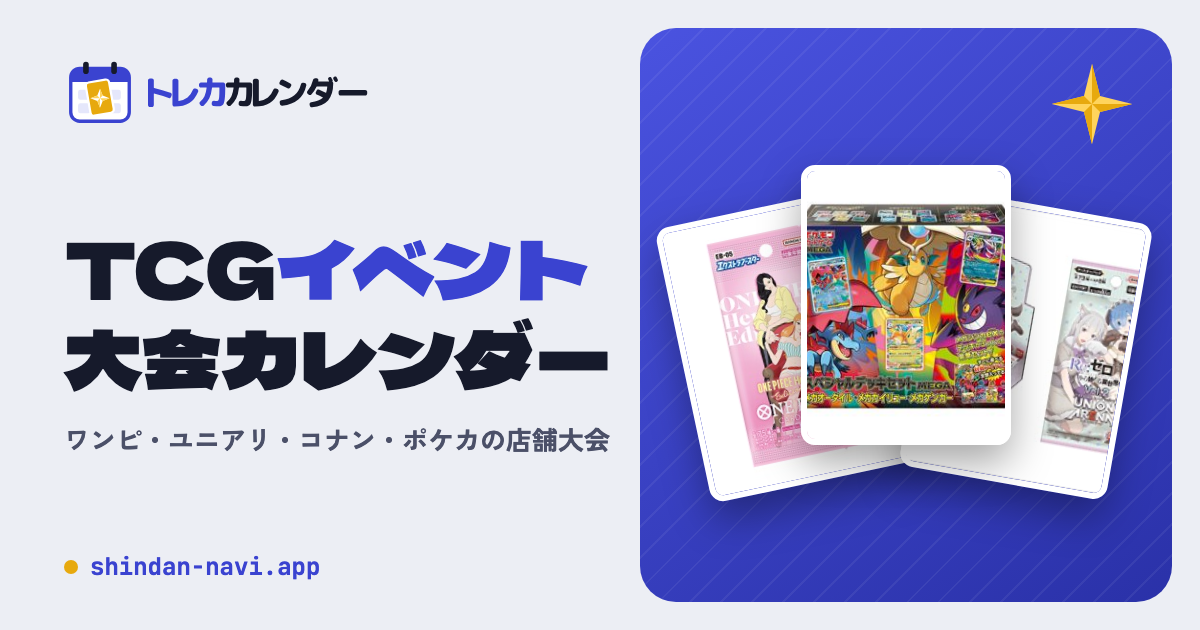
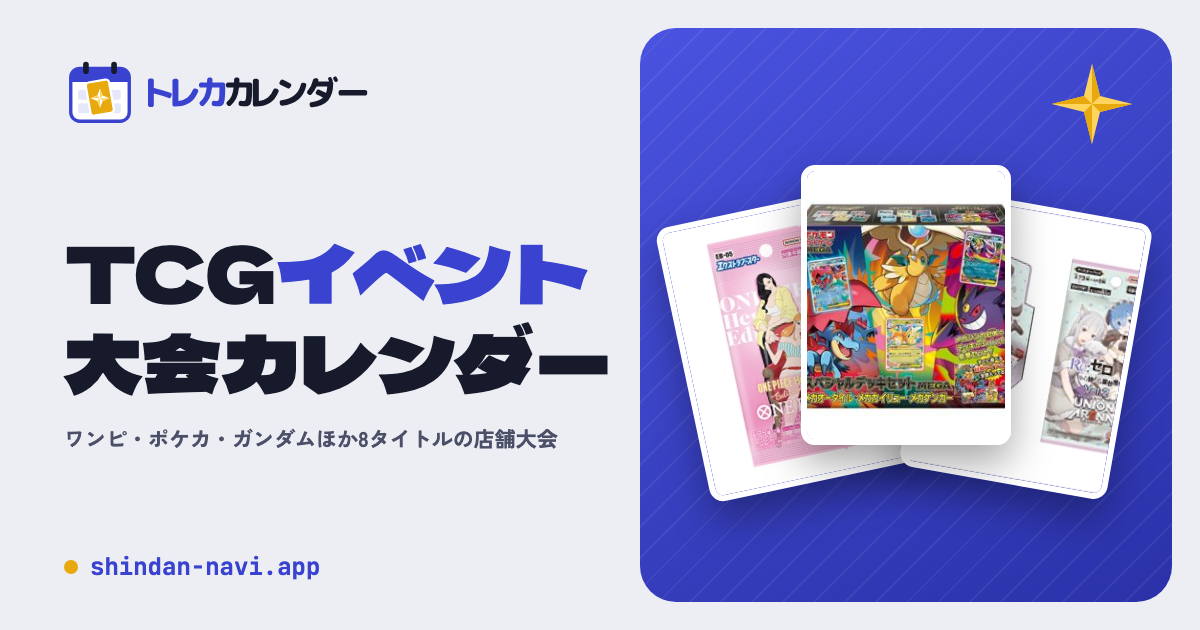
Events: four more Bandai games in the API, /events/ and the today page
- Migration 0005 seeds the games (bits 16-128) and rebuilds events and
  day_counts so game_mask may reach 255; the importer and Worker know
  the new codes, type labels and slugs.
- /events/ and / get chips, colours and names for ガンダム,
  DBフュージョンワールド, バトルスピリッツ and デジモン.
- The today page shows at most five game columns (the busiest today,
  within the saved game filter); the rest become a ほかのタイトル row.
- D1 budget documents the migration cost and the import split.

Claude-Session: https://claude.ai/code/session_01VCJRsMam3QVvR7JmKudbJ5

diff --git a/src/home.html b/src/home.html
@@ -81,6 +81,8 @@ a.pk.on{border-color:var(--foil);box-shadow:inset 0 0 0 1px var(--foil)}
 .wd .rl b{font-family:var(--mono)}
 .wd .rl:hover{text-decoration:underline}
 .gcs{display:flex;flex-wrap:wrap;gap:4px;margin-top:auto}
+.gcs.gmore{align-items:center;margin-top:8px}
+.gmore .lab{font-size:12px;color:var(--muted);margin-right:2px}
 .gc{display:inline-flex;align-items:center;gap:4px;font-size:11.5px;font-weight:700;color:var(--ink);text-decoration:none;border:1px solid hsl(var(--h) var(--chip-s) var(--chip-l));background:hsl(var(--h) 70% var(--tint-l));border-radius:999px;padding:1px 8px 1px 6px;white-space:nowrap;min-width:0}
 .gc span{display:inline-flex;align-items:center;gap:4px;min-width:0;overflow:hidden;text-overflow:ellipsis}
 .gc i{width:7px;height:7px;border-radius:50%;flex:none;background:hsl(var(--h) var(--chip-s) var(--chip-l))}
@@ -214,7 +216,11 @@ const EV_GAMES = [
   {code:'OPCG', name:'ONE PIECE', short:'ワンピ', h:4, bit:1},
   {code:'UATCG', name:'UNION ARENA', short:'ユニアリ', h:272, bit:2},
   {code:'CONAN', name:'名探偵コナン', short:'コナン', h:205, bit:4},
-  {code:'PTCG', name:'ポケモンカード', short:'ポケカ', h:44, bit:8}
+  {code:'PTCG', name:'ポケモンカード', short:'ポケカ', h:44, bit:8},
+  {code:'GCG', name:'ガンダム', short:'ガンダム', h:325, bit:16},
+  {code:'DBFW', name:'DBフュージョンワールド', short:'DBFW', h:26, bit:32},
+  {code:'BS', name:'バトルスピリッツ', short:'バトスピ', h:140, bit:64},
+  {code:'DCG', name:'デジモン', short:'デジカ', h:178, bit:128}
 ];
 const EVG = Object.fromEntries(EV_GAMES.map(g=>[g.code,g]));
 const SAVED_KEY = 'tcg.ev.filters';
@@ -245,13 +251,21 @@ async function api(path,query){
   return body;
 }
 const codesOf = e => Array.isArray(e.game_codes)&&e.game_codes.length ? e.game_codes : [e.game_code];
-// Today's columns: the games with events today (by_game of /days), in EV_GAMES order.
-function todayCols(){
+// Today's games with events (by_game of /days, which already follows the saved game filter), in EV_GAMES order.
+function todayGames(){
   const bg=ev.byGame[TODAY];
   if(bg) return EV_GAMES.filter(g=>bg[g.code]>0).map(g=>({g, n:bg[g.code]}));
   // /days without by_game: what the loaded page holds
   const n={}; ev.list.filter(e=>e.starts_on===TODAY).forEach(e=>codesOf(e).forEach(c=>n[c]=(n[c]||0)+1));
   return EV_GAMES.filter(g=>n[g.code]).map(g=>({g, n:n[g.code]}));
+}
+// At most MAX_COLS columns: the games with the most events today (ties in EV_GAMES order), still in EV_GAMES order.
+const MAX_COLS = 5;
+function todayCols(){
+  const all=todayGames();
+  if(all.length<=MAX_COLS) return all;
+  const top=new Set([...all].sort((a,b)=>b.n-a.n).slice(0,MAX_COLS));
+  return all.filter(c=>top.has(c));
 }
 // Within a day: today, events that already started follow the upcoming ones; cancelled ones go last (as on /events/).
 const started = e => e.starts_on===TODAY && e.time_precision==='datetime' && !!e.starts_at && Date.parse(e.starts_at)<=Date.now();
@@ -326,14 +340,15 @@ function renderEv(){
     body.innerHTML = `<p class="none"><b>今日、${esc(LOC.locName(f.pref))}で予定されているイベントはありません</b>${nx?`<a class="go" href="${esc(dayLink(f,nx))}">次は ${md(nx)}・${ev.counts[nx]}件 ›</a>`:''}</p>`;
     return;
   }
-  const cols=todayCols(), k=SHOW(cols.length);
+  const cols=todayCols(), k=SHOW(cols.length), hidden=todayGames().filter(c=>!cols.some(x=>x.g===c.g));
+  const others = hidden.length ? `<div class="gcs gmore"><span class="lab">ほかのタイトル</span>${hidden.map(({g,n})=>`<a class="gc" style="--h:${g.h}" href="${esc(dayLink(f,TODAY,g.code))}" title="${esc(g.name)}・${n}件"><span><i aria-hidden="true"></i>${esc(g.name)}</span><b>${n}</b></a>`).join('')}</div>` : '';
   body.innerHTML = `<div class="gcols" style="--n:${Math.max(cols.length,1)}">${cols.map(({g,n})=>{
     const rows=rowsFor(g.code,TODAY).slice(0,k), rest=n-rows.length, href=esc(dayLink(f,TODAY,g.code));
     const list = rows.length ? `<ul class="evs">${rows.map(e=>evRow(e,g.code)).join('')}</ul>` : '';
     const more = !rows.length ? `<a class="go more" href="${href}">${n}件をイベントカレンダーで見る ›</a>`
       : rest>0 ? `<a class="go more" href="${href}">ほか ${rest}件 ›</a>` : `<a class="go more" href="${href}">地図で見る ›</a>`;
     return `<section class="gcol" style="--h:${g.h}" aria-label="${esc(g.name)}"><h3><span class="gn"><i aria-hidden="true"></i>${esc(g.name)}</span><span class="c"><b>${n}</b> 件</span></h3>${list}${more}</section>`;
-  }).join('')}</div>`;
+  }).join('')}</div>${others}`;
 }
 
 // ---- tomorrow and the rest of the week: releases, and with a location the events per game (this month's /days only;

diff --git a/api/tests/import.test.ts b/api/tests/import.test.ts
@@ -1,9 +1,9 @@
 import { describe, expect, it } from 'vitest';
 import { mkdirSync, rmSync, writeFileSync } from 'node:fs';
 import { join } from 'node:path';
-import { ALL_PREFS, api, apiAll, importDir, newDb, run, sampleEvents, synthetic, writeDataDir, type Ev } from './helpers';
+import { ALL_PREFS, api, apiAll, importDir, newDb, run, sampleEvents, SOURCE, synthetic, writeDataDir, type Ev } from './helpers';
 import { emptyState, estimateCost, loadAll, MAX_STATEMENT_BYTES, planImport, toSqlFile } from '../scripts/lib/importer.mjs';
-import type { SqliteD1 } from '../scripts/lib/sqlite-d1.mjs';
+import { SqliteD1 } from '../scripts/lib/sqlite-d1.mjs';
 
 const snapshot = (db: SqliteD1) => ({
   events: db.db.prepare('SELECT * FROM events ORDER BY id').all(),
@@ -243,6 +243,57 @@ describe('shared events', () => {
   it('warns when shared copies differ', () => {
     const dir = writeDataDir([...opcg, ...uatcg.map((e) => (e.id === shared.id ? { ...e, name: 'different' } : e))]);
     expect(loadAll(dir).flatMap((r) => r.warnings).join('\n')).toMatch(/tcgp:shared1: differs from the copy in OPCG/);
+  });
+});
+
+describe('games with bits above 8', () => {
+  // SYNTHETIC: the four-game data plus events of the Bandai games added in 0005 (bits 16-128), one of them shared
+  // by OPCG, GCG and DCG (mask 145).
+  const base = synthetic(40);
+  const more = ['GCG', 'DBFW', 'BS', 'DCG'].flatMap((g, i) => synthetic(6, 1_000 + i * 6).map((e) => ({
+    ...e, game_code: g, source_code: SOURCE[g], id: `tcgp:${g}${e.external_id}`, external_id: `${g}${e.external_id}`,
+  })));
+  const opcgEv = base.find((e) => e.game_code === 'OPCG' && e.venue)!;
+  const shared: Ev = { ...opcgEv, source_code: 'bandai_tcg_plus', id: 'tcgp:shared9', external_id: 'shared9', name: '【SYNTHETIC】shared 3 games' };
+  const evs = [...base, ...more, ...['OPCG', 'GCG', 'DCG'].map((g) => ({ ...shared, game_code: g }))];
+
+  it('stores, filters and counts them like the first four', async () => {
+    const db = newDb();
+    const results = importDir(db, writeDataDir(evs), 1_000);
+    expect(results.flatMap((r) => [...r.errors, ...r.warnings])).toEqual([]);
+    expect(mask(db, shared.id)).toBe(1 | 16 | 128);
+    const ev = (await apiAll(db, Q)).body.events.find((e: Ev) => e.id === shared.id);
+    expect(ev.game_codes).toEqual(['DCG', 'GCG', 'OPCG']);
+    for (const g of ['GCG', 'DBFW', 'BS', 'DCG']) {
+      const want = more.filter((e) => e.game_code === g).length + (['GCG', 'DCG'].includes(g) ? 1 : 0);
+      expect((await apiAll(db, `${Q}&game=${g}`)).body.events).toHaveLength(want);
+      const days = (await apiAll(db, `/api/v1/events/days?from=2026-11-18&until=2027-02-18&${ALL_PREFS}&game=${g}`)).body.days;
+      expect(days.reduce((n: number, d: Ev) => n + d.by_game[g], 0)).toBe(want);
+    }
+    const meta = (await api(db, '/api/v1/events/meta')).body;
+    expect(meta.games.find((g: Ev) => g.code === 'BS').record_count).toBe(6);
+    const rows: number[] = Object.values(meta.loc_counts.rows).flat() as number[];
+    expect(rows.filter((_, i) => i % 5 === 0)).toContain(145);
+  });
+
+  it('0005 keeps the rows of a database migrated before it', async () => {
+    const db = new SqliteD1();
+    db.db.exec("CREATE TABLE d1_migrations (id INTEGER PRIMARY KEY AUTOINCREMENT, name TEXT UNIQUE, applied_at TIMESTAMP DEFAULT CURRENT_TIMESTAMP NOT NULL); INSERT INTO d1_migrations (name) VALUES ('0005_more_games.sql')");
+    db.migrate();
+    const old = base.filter((e) => ['OPCG', 'UATCG', 'CONAN', 'PTCG'].includes(e.game_code));
+    importDir(db, writeDataDir(old), 1_000);
+    expect(() => db.db.exec("UPDATE events SET game_mask = 16")).toThrow(/CHECK/);
+    const before = snapshot(db);
+    const dayCounts = db.db.prepare('SELECT * FROM day_counts ORDER BY 1, 2, 3, 4').all();
+    db.db.exec("DELETE FROM d1_migrations WHERE name = '0005_more_games.sql'");
+    db.migrate();
+    expect(snapshot(db)).toEqual(before);
+    expect(db.db.prepare('SELECT * FROM day_counts ORDER BY 1, 2, 3, 4').all()).toEqual(dayCounts);
+    expect(db.db.prepare("SELECT name FROM sqlite_master WHERE type = 'index' AND tbl_name = 'events' AND sql IS NOT NULL").all()).toEqual([{ name: 'idx_events_loc' }]);
+    // Adding the new games is now an ordinary diff.
+    const plan = importDir(db, writeDataDir(evs), 2_000).plan;
+    expect(plan.stats).toMatchObject({ inserted: more.length + 1 });
+    expect(mask(db, shared.id)).toBe(145);
   });
 });
 

diff --git a/src/events.html b/src/events.html
@@ -1,4 +1,4 @@
-<title>TCGイベント・大会カレンダー（ワンピ・ユニアリ・コナン・ポケカ）｜トレカカレンダー</title>
+<title>TCGイベント・大会カレンダー（ポケカ・ワンピ・ガンダム・デジモンほか）｜トレカカレンダー</title>
 <style>/*SITE_CSS*/</style>
 <style>/*EVENT_FONTS*/</style>
 <style>
@@ -203,7 +203,7 @@ button.cd:hover{background:var(--surface-2)}
     <div id="calv"></div>
   </main>
 
-  <div class="pageinfo"><div class="ptitle"><h1>TCG イベントカレンダー（ONE PIECE・UNION ARENA・名探偵コナン・ポケモンカード）</h1><p>店舗大会・交流会・体験会を、開催日・都道府県・イベント形式で探せます。</p></div><p class="fresh" id="fresh" aria-label="データの更新状況"></p></div>
+  <div class="pageinfo"><div class="ptitle"><h1>TCG イベントカレンダー（ONE PIECE・UNION ARENA・名探偵コナン・ポケモンカード・ガンダム・DBフュージョンワールド・バトルスピリッツ・デジモン）</h1><p>店舗大会・交流会・体験会を、開催日・都道府県・イベント形式で探せます。</p></div><p class="fresh" id="fresh" aria-label="データの更新状況"></p></div>
   <p class="legend">イベント情報は各タイトルの公式イベントページで公開されている内容をもとに掲載しています。開催可否・参加費・定員・申込方法は変わることがあるため、参加前に必ず「公式で詳細・申込」から最新情報をご確認ください。定員は募集人数で、残り枠ではありません。</p>
   <p class="legend"><!--NOLOGIN-->絞り込み条件・表示設定はお使いのブラウザ（localStorage）に保存され、本サイトのサーバーには送信されません。<!--/NOLOGIN--><!--LOGIN-->絞り込み条件・表示設定はお使いのブラウザ（localStorage）に保存されます。ログインすると、絞り込み条件（都道府県を含む）をアカウントに保存し、ほかの端末と同期します。<!--/LOGIN-->初めて開いたときの都道府県は、接続元 IP アドレスから推定したものです（位置情報の許可は求めず、推定結果も保存しません）。本サイトはアクセス解析のため Google アナリティクス（Cookie を使用し、閲覧ページ・参照元・端末やブラウザの情報などを Google に送信）を利用しています。日付ごとの会場地図には Google マップを使っており、地図を開くと IP アドレスなどの情報が Google に送信されます。詳しくは <a href="/privacy/">プライバシーポリシー</a> をご覧ください。</p>
   <!--SITENAV-->
@@ -220,7 +220,11 @@ const GAMES = [
   {code:'OPCG', name:'ONE PIECE', h:4, bit:1},
   {code:'UATCG', name:'UNION ARENA', h:272, bit:2},
   {code:'CONAN', name:'名探偵コナン', h:205, bit:4},
-  {code:'PTCG', name:'ポケモンカード', h:44, bit:8}
+  {code:'PTCG', name:'ポケモンカード', h:44, bit:8},
+  {code:'GCG', name:'ガンダム', h:325, bit:16},
+  {code:'DBFW', name:'DBフュージョンワールド', h:26, bit:32},
+  {code:'BS', name:'バトルスピリッツ', h:140, bit:64},
+  {code:'DCG', name:'デジモン', h:178, bit:128}
 ];
 const GAME = Object.fromEntries(GAMES.map(g=>[g.code,g]));
 // One location at a time (owner decision): a prefecture, or 'online' for events without a venue. Older links and

diff --git a/api/src/constants.ts b/api/src/constants.ts
@@ -3,6 +3,10 @@ export const GAMES = [
   { code: 'UATCG', name: 'UNION ARENA', slug: 'unionarena', bit: 2 },
   { code: 'CONAN', name: '名探偵コナン カードゲーム', slug: 'conan', bit: 4 },
   { code: 'PTCG', name: 'ポケモンカードゲーム', slug: 'pokemon', bit: 8 },
+  { code: 'GCG', name: 'ガンダムカードゲーム', slug: 'gundam', bit: 16 },
+  { code: 'DBFW', name: 'ドラゴンボールスーパーカードゲーム フュージョンワールド', slug: 'dragonball', bit: 32 },
+  { code: 'BS', name: 'バトルスピリッツ', slug: 'battlespirits', bit: 64 },
+  { code: 'DCG', name: 'デジモンカードゲーム', slug: 'digimon', bit: 128 },
 ] as const;
 export const GAME_CODES = GAMES.map((g) => g.code);
 export const MAX_PREFS = 5;
@@ -48,4 +52,13 @@ export const TYPE_LABELS: Record<string, string> = {
   union_rare_battle: 'ユニオンレア争奪バトル',
   challenge: 'チャレンジ戦',
   fan_meeting: 'ファンミーティング',
+  shop_battle: 'ショップバトル',
+  tamer_battle: 'テイマーバトル',
+  battlers_cup: 'バトラーズカップ',
+  evolution_cup: 'エボリューションカップ',
+  ultimate_battle: 'アルティメットバトル',
+  ultimate_cup: 'アルティメットカップ',
+  newtype_challenge: 'ニュータイプチャレンジ',
+  team_battle: 'チーム戦',
+  battleski_event: 'バトルスキー主催大会',
 };

diff --git a/api/tests/api.test.ts b/api/tests/api.test.ts
@@ -271,7 +271,9 @@ describe('GET /api/v1/events/meta', () => {
     const r = await api(db, '/api/v1/events/meta');
     expect(r.status).toBe(200);
     const m = r.body;
-    expect(m.games.map((g: Ev) => [g.code, g.slug])).toEqual([['OPCG', 'onepiece'], ['UATCG', 'unionarena'], ['CONAN', 'conan'], ['PTCG', 'pokemon']]);
+    expect(m.games.map((g: Ev) => [g.code, g.slug])).toEqual([['OPCG', 'onepiece'], ['UATCG', 'unionarena'], ['CONAN', 'conan'], ['PTCG', 'pokemon'],
+      ['GCG', 'gundam'], ['DBFW', 'dragonball'], ['BS', 'battlespirits'], ['DCG', 'digimon']]);
+    expect(m.games.find((g: Ev) => g.code === 'DCG')).toMatchObject({ record_count: 0, fetched_at: null, complete: false, window: null });
     const opcg = m.games[0];
     expect(opcg).toMatchObject({ name: 'ONE PIECEカードゲーム', fetched_at: '2026-11-18T00:00:00Z', complete: true, window: { from: '2026-11-18', until: '2027-02-18' } });
     expect(opcg.record_count).toBe(all.filter((e) => e.game_code === 'OPCG').length);

diff --git a/api/tests/helpers.ts b/api/tests/helpers.ts
@@ -11,7 +11,10 @@ export const WINDOW = { from: '2026-11-18', until: '2027-02-18' };
 export const sampleEvents = (): Ev[] =>
   JSON.parse(readFileSync(join(REPO_DIR, 'contracts/fixtures/sample-events.json'), 'utf8'));
 
-export const SOURCE: Record<string, string> = { OPCG: 'bandai_tcg_plus', UATCG: 'bandai_tcg_plus', CONAN: 'conan_official', PTCG: 'pokemon_players' };
+export const SOURCE: Record<string, string> = {
+  OPCG: 'bandai_tcg_plus', UATCG: 'bandai_tcg_plus', CONAN: 'conan_official', PTCG: 'pokemon_players',
+  GCG: 'bandai_tcg_plus', DBFW: 'bandai_tcg_plus', BS: 'bandai_tcg_plus', DCG: 'bandai_tcg_plus',
+};
 const PREFIX: Record<string, string> = { bandai_tcg_plus: 'tcgp', pokemon_players: 'ptcg', conan_official: 'conan' };
 
 export function run(game: string, count: number, extra: Ev = {}): Ev {

diff --git a/scripts/build.py b/scripts/build.py
@@ -293,8 +293,8 @@ EVENTS_API_BASE=os.environ.get('EVENTS_API_BASE','/api/v1')
 # Browser key for the /events/ day-view map (Maps JavaScript API only, HTTP-referrer restricted; public by design). Empty = placeholder.
 MAPS_BROWSER_KEY=os.environ.get('MAPS_BROWSER_KEY','').strip()
 EVENTS_PAGE=dict(path='/events/',og='events',
-    desc='ONE PIECEカードゲーム・UNION ARENA・名探偵コナン カードゲーム・ポケモンカードの店舗大会・ジムバトル・交流会・体験会を、開催日・都道府県・イベント形式で探せるTCGイベントカレンダー。公式イベント情報をまとめて一覧でチェックできます。',
-    keywords=['TCG イベント','トレカ 大会','店舗大会','ジムバトル','交流会','体験会','ワンピカード 大会','ユニアリ 大会','コナンカード 大会','ポケカ 大会','イベントカレンダー'],
+    desc='ONE PIECEカードゲーム・UNION ARENA・名探偵コナン カードゲーム・ポケモンカード・ガンダムカードゲーム・ドラゴンボール フュージョンワールド・バトルスピリッツ・デジモンカードゲームの店舗大会・ジムバトル・交流会・体験会を、開催日・都道府県・イベント形式で探せるTCGイベントカレンダー。公式イベント情報をまとめて一覧でチェックできます。',
+    keywords=['TCG イベント','トレカ 大会','店舗大会','ジムバトル','交流会','体験会','ワンピカード 大会','ユニアリ 大会','コナンカード 大会','ポケカ 大会','ガンダムカード 大会','フュージョンワールド 大会','バトスピ 大会','デジカ 大会','イベントカレンダー'],
     h1='TCG イベントカレンダー',lead='店舗大会・交流会・体験会を開催日・都道府県・イベント形式で探せます。',js=None)
 def render_events():
     src=flags(open(os.path.join(ROOT,'src/events.html')).read())

diff --git a/scripts/og.py b/scripts/og.py
@@ -101,7 +101,7 @@ for p in pages:
         big, sub, game = 'トレカ<em>新弾</em>\n発売日カレンダー', 'ポケカ・ワンピ・MTG・遊戯王・ヴァイスほか', None
     elif name == 'events':
         thumbs = [t[0] for t in (thumbs_for(g) for g in ('ONE PIECE', 'UNION ARENA', 'ポケモンカード')) if t]
-        render(name, card_html(name, 'TCG<em>イベント</em>\n大会カレンダー', 'ワンピ・ユニアリ・コナン・ポケカの店舗大会', thumbs))
+        render(name, card_html(name, 'TCG<em>イベント</em>\n大会カレンダー', 'ワンピ・ポケカ・ガンダムほか8タイトルの店舗大会', thumbs))
         continue
     else:
         game = p['js']['game']

diff --git a/CLAUDE.md b/CLAUDE.md
@@ -28,7 +28,7 @@ tools/event-collectors/ (local)  → data/events/ (git-ignored) ─ api/scripts/
 - **/events/ shows one location.** The page picks exactly one location (a prefecture or `online`; owner decision 2026-11-19, older links / saved filters with several keep the first); it preselects the IP-guessed prefecture or asks. The API still accepts 1-5 `pref` values. There is no nationwide view, by owner decision (keeps D1 reads bounded). The picker's per-location numbers follow the current title / type / day filters and come from `loc_counts` in the importer-written meta (no request per location); meta written before it existed shows unfiltered totals only. In the calendar view the title chips' numbers come from the same `loc_counts` for the chosen location and month (none in the list / day views or without it).
 - **Data updates are a separate local step** that ends in a reviewed commit: `python3 -I scripts/refresh.py` in a worktree runs collect → merge → build → verify and writes a review packet to `out/refresh-<TODAY>/packet.md`. It is run by hand; the "no scheduled refresh" decision stands. Contract: `contracts/releases.md`; workflow: `.claude/skills/update-data/`.
 - `src/template.html` is the whole app (HTML + CSS + vanilla JS). The build fills `/*DATA*/`, `/*OFFICIAL*/`, `/*PAGE*/null` and the `<!--PAGEHEAD-->`, `<!--SEOLIST-->`, `<!--SITENAV-->`, `<!--CORNER-->` slots per page. `src/corner.html` (the tool tabs, then the top-right corner: settings/theme, user control and its script) goes into `<!--CORNER-->` on every page; `<!--LOGIN-->…<!--/LOGIN-->` / `<!--NOLOGIN-->` / `<!--EVENTS-->` / `<!--FEEDBACK-->` / `<!--STORE-->` (login or feedback on) / `<!--NOSTORE-->` parts of the page sources (and `public/404.html`) are kept or dropped by build flag.
-- Pages: the release calendar `/releases/` (all titles; it lived at `/` until 2026-11-19), 10 main-title pages (`/pokemon/ /onepiece/ /mtg/ /yugioh/ /duelmasters/ /weiss/ /unionarena/ /gundam/ /dragonball/ /digimon/`, list in `GAMES` in build.py), month pages `/YYYY-MM/`. Each has its own title/description/canonical/OGP, a static release list in the HTML, JSON-LD, and the calendar pre-filtered via `PAGE`. A title page whose title has no release this month opens on its next month with releases (else its latest) with a note. `/events/` (from `src/events.html`, head/OGP from `EVENTS_PAGE` in build.py) is indexable, in the sitemap and in the tool tabs; its data comes from `/api/v1/`. `/` is the today page (`src/home.html`, `home_page`/`render_home` in build.py; indexable, in the sitemap, only WebSite JSON-LD (alternateName 新弾ナビ); h1 at the top, no static list or about block since 2026-11-19, 旧・新弾ナビ in the description and footer brand): 今日発売 (favourites first, full width), 今日のイベント for the saved `/events/` location as one column per game (fixed `/events/` game order), 明日・今週の予定 with per-game event chips. Today is Asia/Tokyo in the browser; the build embeds the releases from build day -1 to +14 (`HOME_BEFORE`/`HOME_AFTER`) and the page says so past that window. Events: 2-3 API requests (`/events/days` this month + the first `/events` page from today, + its cursor page only when a game column would stay short; the same cache keys as `/events/`), none without a saved location, `/events/meta` only when the picker opens, no `/geo`; the saved `days` filter is ignored. The location picker is `src/locpick.html` (`<!--LOCPICK-->` slot, `window.snLoc`), shared by `/` and `/events/`; both write `pref` in `tcg.ev.filters`. It links into the release calendar with `/releases/#d=YYYY-MM-DD` (opens that day) / `#i=<id>` (one item), read by `src/template.html`, and into `/events/` day views. Logo and breadcrumb トップ link to `/`; the 新弾カレンダー tool tab and breadcrumb link to `/releases/`.
+- Pages: the release calendar `/releases/` (all titles; it lived at `/` until 2026-11-19), 10 main-title pages (`/pokemon/ /onepiece/ /mtg/ /yugioh/ /duelmasters/ /weiss/ /unionarena/ /gundam/ /dragonball/ /digimon/`, list in `GAMES` in build.py), month pages `/YYYY-MM/`. Each has its own title/description/canonical/OGP, a static release list in the HTML, JSON-LD, and the calendar pre-filtered via `PAGE`. A title page whose title has no release this month opens on its next month with releases (else its latest) with a note. `/events/` (from `src/events.html`, head/OGP from `EVENTS_PAGE` in build.py) is indexable, in the sitemap and in the tool tabs; its data comes from `/api/v1/`. `/` is the today page (`src/home.html`, `home_page`/`render_home` in build.py; indexable, in the sitemap, only WebSite JSON-LD (alternateName 新弾ナビ); h1 at the top, no static list or about block since 2026-11-19, 旧・新弾ナビ in the description and footer brand): 今日発売 (favourites first, full width), 今日のイベント for the saved `/events/` location as one column per game (fixed `/events/` game order; at most 5: the saved game filter decides which games count, and with more than 5 the 5 busiest today get columns, the rest a ほかのタイトル chip row), 明日・今週の予定 with per-game event chips. Today is Asia/Tokyo in the browser; the build embeds the releases from build day -1 to +14 (`HOME_BEFORE`/`HOME_AFTER`) and the page says so past that window. Events: 2-3 API requests (`/events/days` this month + the first `/events` page from today, + its cursor page only when a game column would stay short; the same cache keys as `/events/`), none without a saved location, `/events/meta` only when the picker opens, no `/geo`; the saved `days` filter is ignored. The location picker is `src/locpick.html` (`<!--LOCPICK-->` slot, `window.snLoc`), shared by `/` and `/events/`; both write `pref` in `tcg.ev.filters`. It links into the release calendar with `/releases/#d=YYYY-MM-DD` (opens that day) / `#i=<id>` (one item), read by `src/template.html`, and into `/events/` day views. Logo and breadcrumb トップ link to `/`; the 新弾カレンダー tool tab and breadcrumb link to `/releases/`.
 
 ## Commands
 

diff --git a/api/README.md b/api/README.md
@@ -70,7 +70,8 @@ Tests use the same stand-in.
   should be identical apart from `game_code`/`last_seen_at`; if not, the importer warns and the last game read wins.
 - Meta (game windows, prefecture / online / category / type counts over each game's latest window, and `loc_counts`:
   per location × game_mask × type × month weekend/weekday counts for the location picker) is computed in the importer
-  from the post-import state and stored as JSON, so `/events/meta` reads one row (~20 KB with the current data).
+  from the post-import state and stored as JSON, so `/events/meta` reads one row (~40 KB with the eight games' data of
+  2026-11-19).
 - Statements are chunked to at most 60,000 UTF-8 bytes including the INSERT head and ON CONFLICT tail (D1 limit
   100 KB). A first import of the current data (~33k events) is ~580 statements, ~34 MB of SQL (`wrangler d1
   execute --file` accepts up to 5 GiB).
@@ -97,6 +98,11 @@ keys `stars` / `event_filters` / `ask_calendar`), and the unused billing placeho
 `migrations/0004_feedback.sql`: `feedback` (one row per form submission: `kind`, `message`, optional `reply_to` /
 `page` / `user_id`, `email_status` `pending`/`sent`/`failed` + `email_error`), indexes on `created_at` (retention
 purge) and `user_id` (account deletion). No IP address or user agent. See Feedback.
+
+`migrations/0005_more_games.sql`: the TCG+ games GCG, DBFW, BS, DCG (`games` bits 16-128) and `events` / `day_counts`
+rebuilt with `game_mask` up to 255 (SQLite cannot change a CHECK in place). The rebuild copies every row, so on D1 it
+writes about as much as a first import of the current data; see D1 budget › Adding games. The code works before the
+migration as long as no new-game data is imported (the four games' masks still fit the old CHECK).
 
 ## Accounts (Google login, synced preferences)
 
@@ -233,7 +239,17 @@ Writes (D1 counts each table row and each index entry; `--plan` prints the exact
 | First import with `venue.geo` (one-time) | 2 × events whose venue gains a geo + 2; upper bound ~65,954 (all 32,976 events with a venue) |
 
 The importer refuses to apply a plan above `--max-writes` (default 90,000); split a bigger first import with
-`--games` across UTC days. Free-plan limits are per day across everything, so check the dashboard before a large
+`--games` across UTC days.
+
+**Adding games** (measured on a copy of the 2026-11-19 data: 33,491 events, 10,498 day_counts rows). Migration
+`0005_more_games.sql` rebuilds `events` and `day_counts`: ~77,500 rows written (33,491 events + their 33,491
+`idx_events_loc` entries + 10,498 day_counts), more if D1 also counts the rows dropped with the old tables (not
+documented). Apply it alone on a UTC day (`wrangler d1 migrations apply` without an import; `import:remote -- --yes`
+would run it first in the same day). A later day: the first import of GCG, DBFW, BS, DCG (20,736 events, window
+2026-11-20..2027-02-18) is ~50,000 rows (`--games GCG,DBFW,BS,DCG`; per game GCG ~18.9k, BS ~12.4k, DBFW ~10.6k,
+DCG ~8.0k), so it fits one day, or two (`--games GCG,DCG` / `--games BS,DBFW`) next to a routine refresh. Order: migration, then push
+the code, then import: the Worker before this change does not know bits 16-128 and would serve those events without a
+`game_code`. The rebuild keeps every column, so the code before and after it both work on the migrated database. Free-plan limits are per day across everything, so check the dashboard before a large
 import on a day that already had one.
 
 `venue.geo` is stored inside `venue_json` (no migration, no extra reads per request). A `geo` of `null` and a missing
